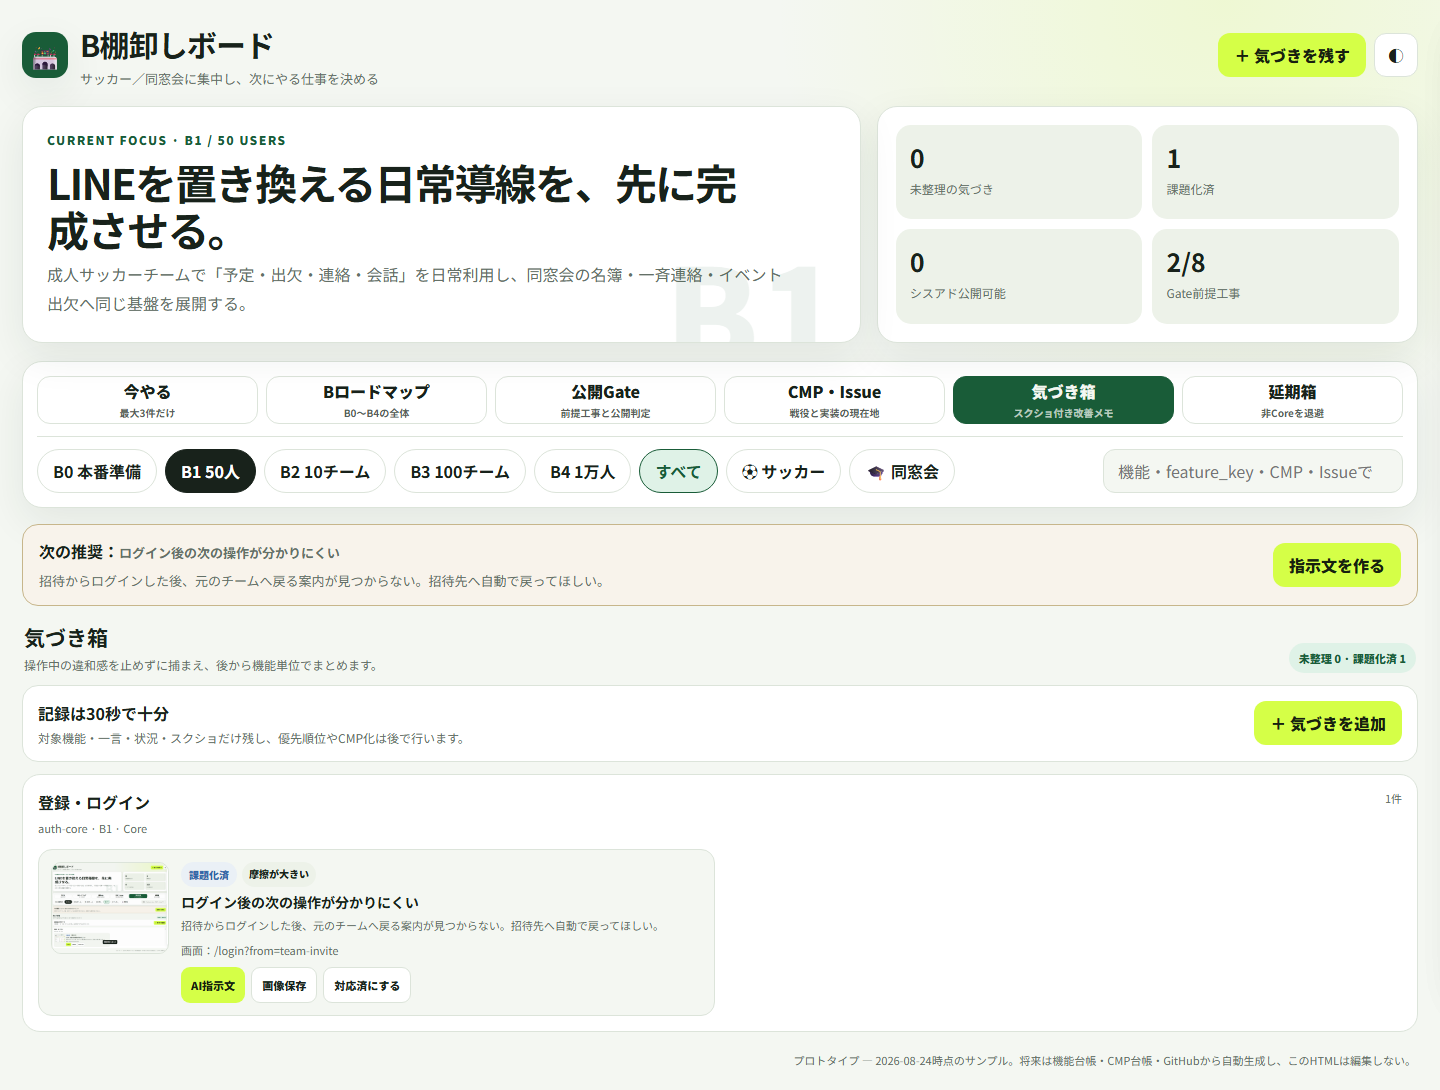
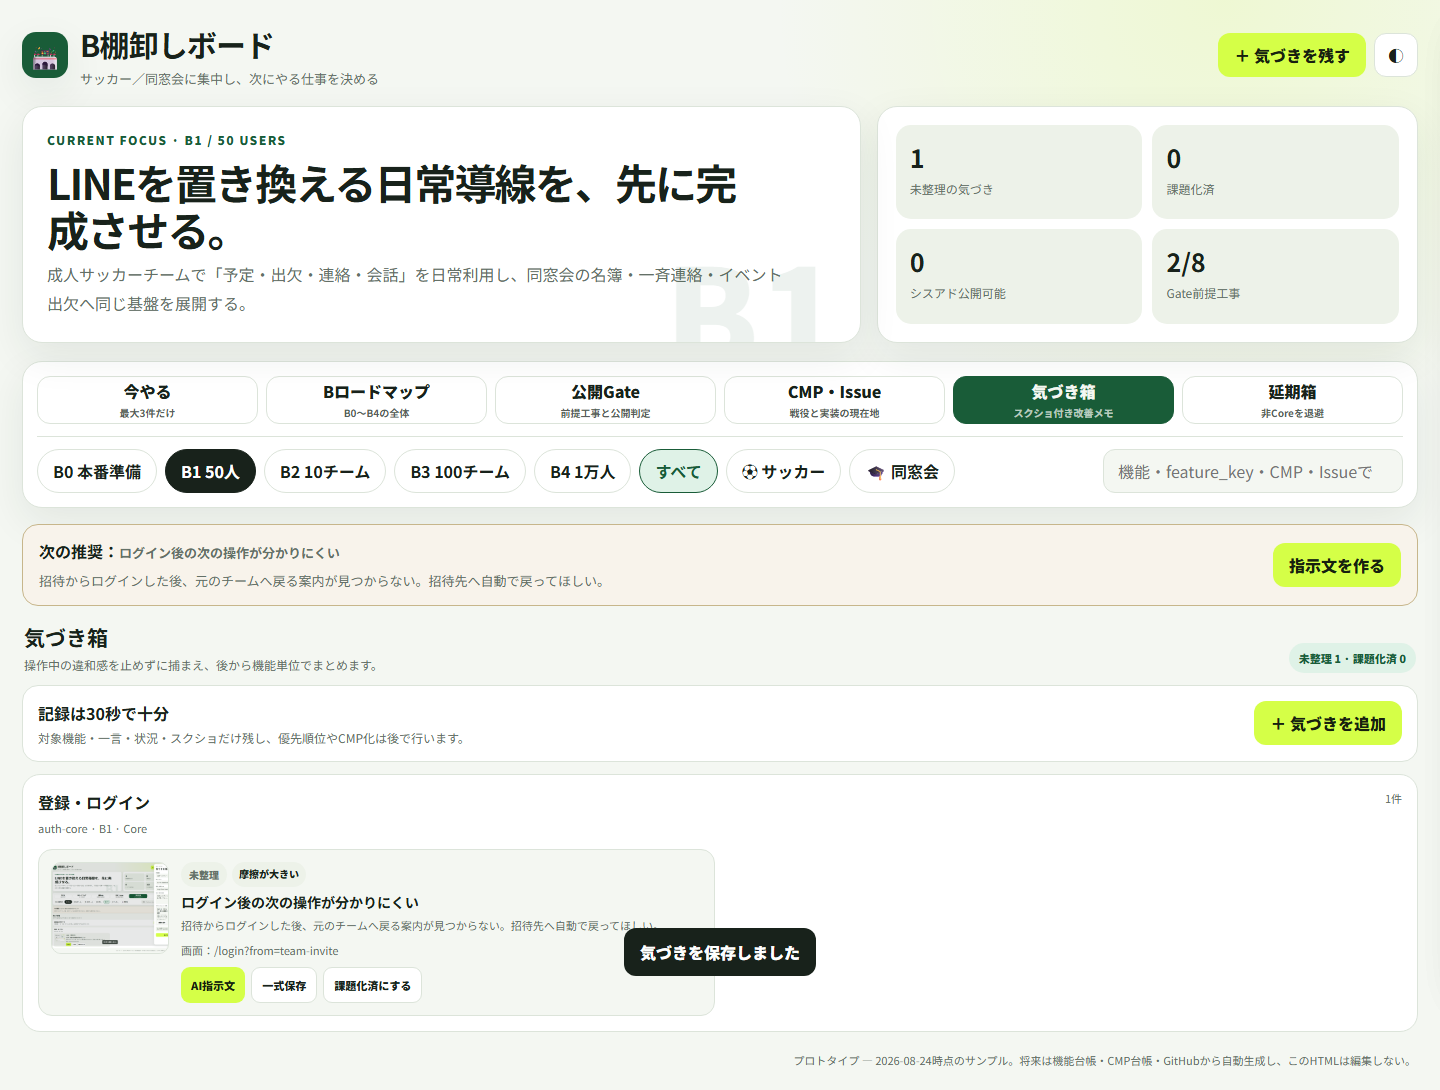
修正: 気づきデータをローカル一式保存に限定

diff --git a/docs/prototypes/beta-inventory-board.html b/docs/prototypes/beta-inventory-board.html
@@ -455,13 +455,13 @@
           <img class="shot-preview" id="shotPreview" alt="添付するスクリーンショットのプレビュー" hidden>
           <div class="shot-help">
             <b>Ctrl＋V、ドロップ、または画像を選択</b>
-            <p>画像はこのブラウザ内へ保存されます。AIへ渡す時は「画像保存」で書き出せます。</p>
+            <p>画像はこのブラウザ内へ仮保存されます。AIへ渡す時はカードの「一式保存」で書き出せます。</p>
             <button class="secondary-button" id="chooseShot" type="button">画像を選択</button>
             <input id="shotInput" type="file" accept="image/*" hidden>
           </div>
         </div>
       </div>
-      <div class="storage-note"><b>試作の保存先：</b>このブラウザのIndexedDB（画像はBlob）。HTML・Git・AWSには送信しません。ブラウザデータ削除や別PCでは失われます。本番版は本文をDB、画像を非公開S3へ保存し、Mannschaftの認可経由で閲覧する想定です。</div>
+      <div class="storage-note"><b>ローカル専用：</b>入力中のメモはこのブラウザのIndexedDB（画像はBlob）へ仮保存します。HTML・Git・AWSには送信しません。確定分はカードの「一式保存」から、機能別フォルダへMarkdown＋画像として書き出します。</div>
       <div class="drawer-actions">
         <button class="primary-button" type="submit">気づきを保存</button>
         <button class="secondary-button" id="cancelInsight" type="button">キャンセル</button>
@@ -1051,7 +1051,7 @@
                           ${insight.page ? `<p>画面：${escapeHtml(insight.page)}</p>` : ''}
                           <div class="insight-actions">
                             <button class="mini-button primary" type="button" data-insight-prompt="${escapeHtml(insight.id)}">AI指示文</button>
-                            ${insight.screenshot ? `<button class="mini-button" type="button" data-insight-download="${escapeHtml(insight.id)}">画像保存</button>` : ''}
+                            <button class="mini-button" type="button" data-insight-export="${escapeHtml(insight.id)}">一式保存</button>
                             <button class="mini-button" type="button" data-insight-status="${escapeHtml(insight.id)}">${insight.status === 'inbox' ? '課題化済にする' : insight.status === 'planned' ? '対応済にする' : '未整理へ戻す'}</button>
                           </div>
                         </div>
@@ -1133,7 +1133,7 @@
 - 発見画面: ${feature.insight.page || '未記録'}
 - 状態: ${feature.insight.status}
 - 記録日時: ${new Date(feature.insight.createdAt).toLocaleString('ja-JP')}
-- スクリーンショット: ${feature.insight.screenshot ? `${feature.insight.screenshotName || '添付あり'}（「画像保存」で書き出し、この依頼と一緒に添付してください）` : 'なし'}
+- スクリーンショット: ${feature.insight.screenshot ? `${feature.insight.screenshotName || '添付あり'}（「一式保存」で書き出し、この依頼と一緒に添付してください）` : 'なし'}
 ` : '';
       const targetType = feature.campaign ? 'CMP' : feature.insight ? '改善メモ' : 'feature_key';
       return `MannschaftのB棚卸しに基づく${agent}向けの依頼です。
@@ -1257,21 +1257,77 @@ ${feature.refs.map((item) => `- ${item}`).join('\n')}
       return `NOTE-${String(date.getFullYear()).slice(-2)}${pad(date.getMonth() + 1)}${pad(date.getDate())}-${pad(date.getHours())}${pad(date.getMinutes())}${pad(date.getSeconds())}-${String(date.getMilliseconds()).padStart(3, '0')}`;
     }
 
-    function downloadInsightScreenshot(insight) {
-      if (!insight?.screenshot) return;
+    function safeLocalName(value) {
+      return String(value).replace(/[<>:"/\\|?*\u0000-\u001F]/g, '_').trim() || 'untitled';
+    }
+
+    function screenshotExtension(insight) {
       const originalName = insight.screenshotName || '';
       const extensionFromName = originalName.includes('.') ? originalName.split('.').pop() : '';
       const extensionByType = { 'image/jpeg': 'jpg', 'image/png': 'png', 'image/webp': 'webp', 'image/gif': 'gif' }[insight.screenshot.type];
-      const extension = extensionFromName || extensionByType || 'png';
+      return extensionFromName || extensionByType || 'png';
+    }
+
+    function insightMarkdown(insight) {
+      const screenshotName = insight.screenshot ? `screenshot.${screenshotExtension(insight)}` : 'なし';
+      return `# ${insight.title}
+
+- ID: ${insight.id}
+- feature_key: ${insight.featureKey}
+- 優先度: ${insight.priority}
+- 状態: ${insight.status}
+- 発見画面: ${insight.page || '未記録'}
+- 記録日時: ${new Date(insight.createdAt).toLocaleString('ja-JP')}
+- スクリーンショット: ${screenshotName}
+
+## 状況・期待する動き
+
+${insight.detail}
+`;
+    }
+
+    function downloadBlob(blob, fileName) {
       const link = document.createElement('a');
-      const url = URL.createObjectURL(insight.screenshot);
+      const url = URL.createObjectURL(blob);
       link.href = url;
-      link.download = `${insight.id}-${insight.featureKey}.${extension}`;
+      link.download = fileName;
       document.body.appendChild(link);
       link.click();
       link.remove();
       window.setTimeout(() => URL.revokeObjectURL(url), 1000);
-      showToast('スクリーンショットを保存しました');
+    }
+
+    async function writeLocalFile(directory, fileName, blob) {
+      const handle = await directory.getFileHandle(fileName, { create: true });
+      const writable = await handle.createWritable();
+      await writable.write(blob);
+      await writable.close();
+    }
+
+    async function exportInsightBundle(insight) {
+      if (!insight) return;
+      const markdown = new Blob([insightMarkdown(insight)], { type: 'text/markdown;charset=utf-8' });
+      const featureFolder = safeLocalName(insight.featureKey);
+      const noteFolder = safeLocalName(insight.id);
+      try {
+        if (typeof window.showDirectoryPicker === 'function') {
+          const root = await window.showDirectoryPicker({ mode: 'readwrite' });
+          const featureDirectory = await root.getDirectoryHandle(featureFolder, { create: true });
+          const noteDirectory = await featureDirectory.getDirectoryHandle(noteFolder, { create: true });
+          await writeLocalFile(noteDirectory, 'note.md', markdown);
+          if (insight.screenshot) {
+            await writeLocalFile(noteDirectory, `screenshot.${screenshotExtension(insight)}`, insight.screenshot);
+          }
+          showToast(`${featureFolder}/${noteFolder} に保存しました`);
+          return;
+        }
+        const prefix = `${featureFolder}__${noteFolder}`;
+        downloadBlob(markdown, `${prefix}__note.md`);
+        if (insight.screenshot) downloadBlob(insight.screenshot, `${prefix}__screenshot.${screenshotExtension(insight)}`);
+        showToast('メモ一式をダウンロードしました');
+      } catch (error) {
+        if (error?.name !== 'AbortError') showToast(`書き出せませんでした: ${error?.message || 'ファイル保存エラー'}`);
+      }
     }
 
     async function advanceInsightStatus(insight) {
@@ -1334,7 +1390,7 @@ ${feature.refs.map((item) => `- ${item}`).join('\n')}
     board.addEventListener('click', async (event) => {
       const openInsightButton = event.target.closest('[data-open-insight-form]');
       const insightPromptButton = event.target.closest('[data-insight-prompt]');
-      const insightDownloadButton = event.target.closest('[data-insight-download]');
+      const insightExportButton = event.target.closest('[data-insight-export]');
       const insightStatusButton = event.target.closest('[data-insight-status]');
       if (openInsightButton) {
         openInsightForm();
@@ -1344,8 +1400,8 @@ ${feature.refs.map((item) => `- ${item}`).join('\n')}
         openDrawer(insightPromptButton.dataset.insightPrompt);
         return;
       }
-      if (insightDownloadButton) {
-        downloadInsightScreenshot(insights.find((item) => item.id === insightDownloadButton.dataset.insightDownload));
+      if (insightExportButton) {
+        await exportInsightBundle(insights.find((item) => item.id === insightExportButton.dataset.insightExport));
         return;
       }
       if (insightStatusButton) {
